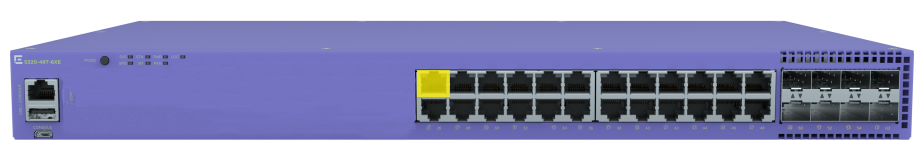
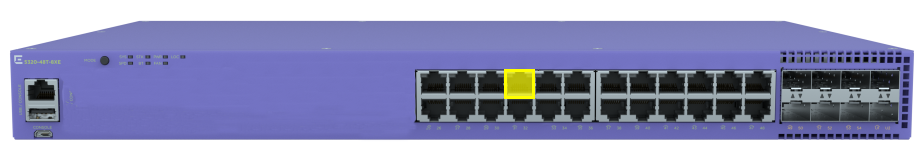
Fix network port documentation to match new port layout (#50)
* Fix network port documentation to match new port layout

* Fix alert text and bump version

---------

Changed region(s): [[0.5455, 0.4012, 0.6061, 0.6173], [0.4242, 0.4321, 0.4848, 0.6173]]

diff --git a/src/renderer/pages/internet_setup/index.tsx b/src/renderer/pages/internet_setup/index.tsx
@@ -39,14 +39,14 @@ function InternetSetup({ nextStep, previousStep }: Steppable) {
                 </Typography.Title>
 
                 <Typography.Text>
-                    Please plug in the venue ethernet into port <b>1</b> on the
-                    Switch on the rear of the AV Cart (Upper-left most port, highlighted below)
+                    Please plug in the venue ethernet into port <b>7</b> on the
+                    Switch on the rear of the AV Cart (4th column, top row, highlighted below)
                 </Typography.Text>
 
                 <Flex gap="small" align="center" vertical>
                     <img
                         src={SwitchInternetPort}
-                        alt="Switch Port 1"
+                        alt="Switch Port 7"
                         style={{ width: '30%' }}
                     />
                 </Flex>

diff --git a/src/renderer/pages/alerts/index.tsx b/src/renderer/pages/alerts/index.tsx
@@ -70,6 +70,9 @@ function Alerts() {
                     {alerts.alerts.map((alert) => (
                         <div key={alert.id}>
                             <div
+                                style={{
+                                    color: 'white !important'
+                                }}
                                 /* eslint-disable react/no-danger */
                                 dangerouslySetInnerHTML={{
                                     __html: alert.content,
